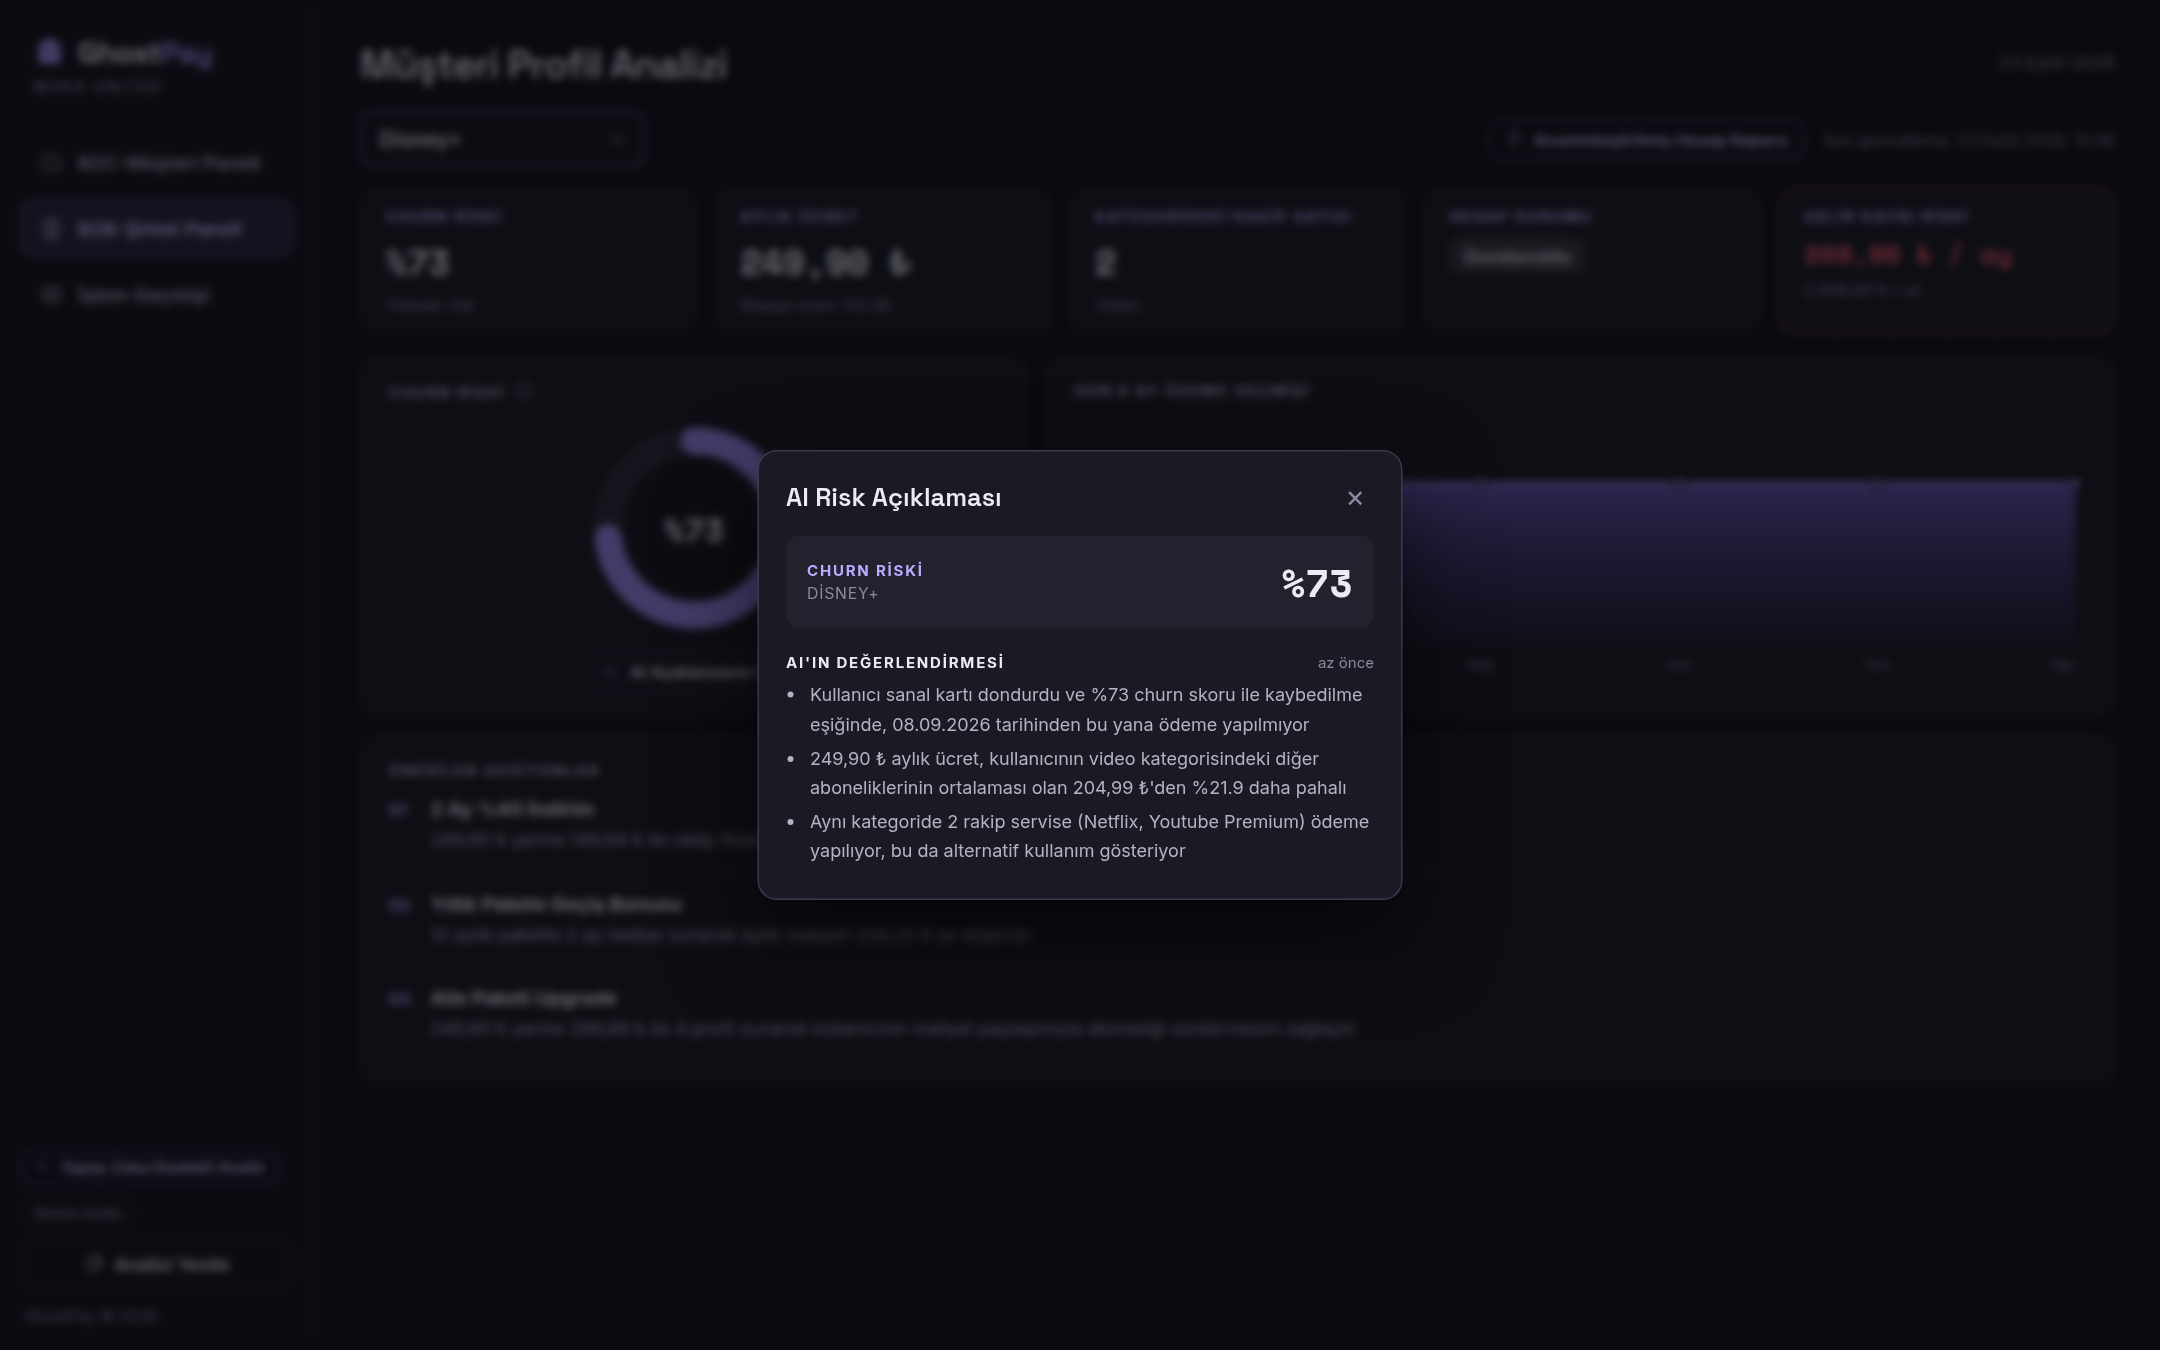
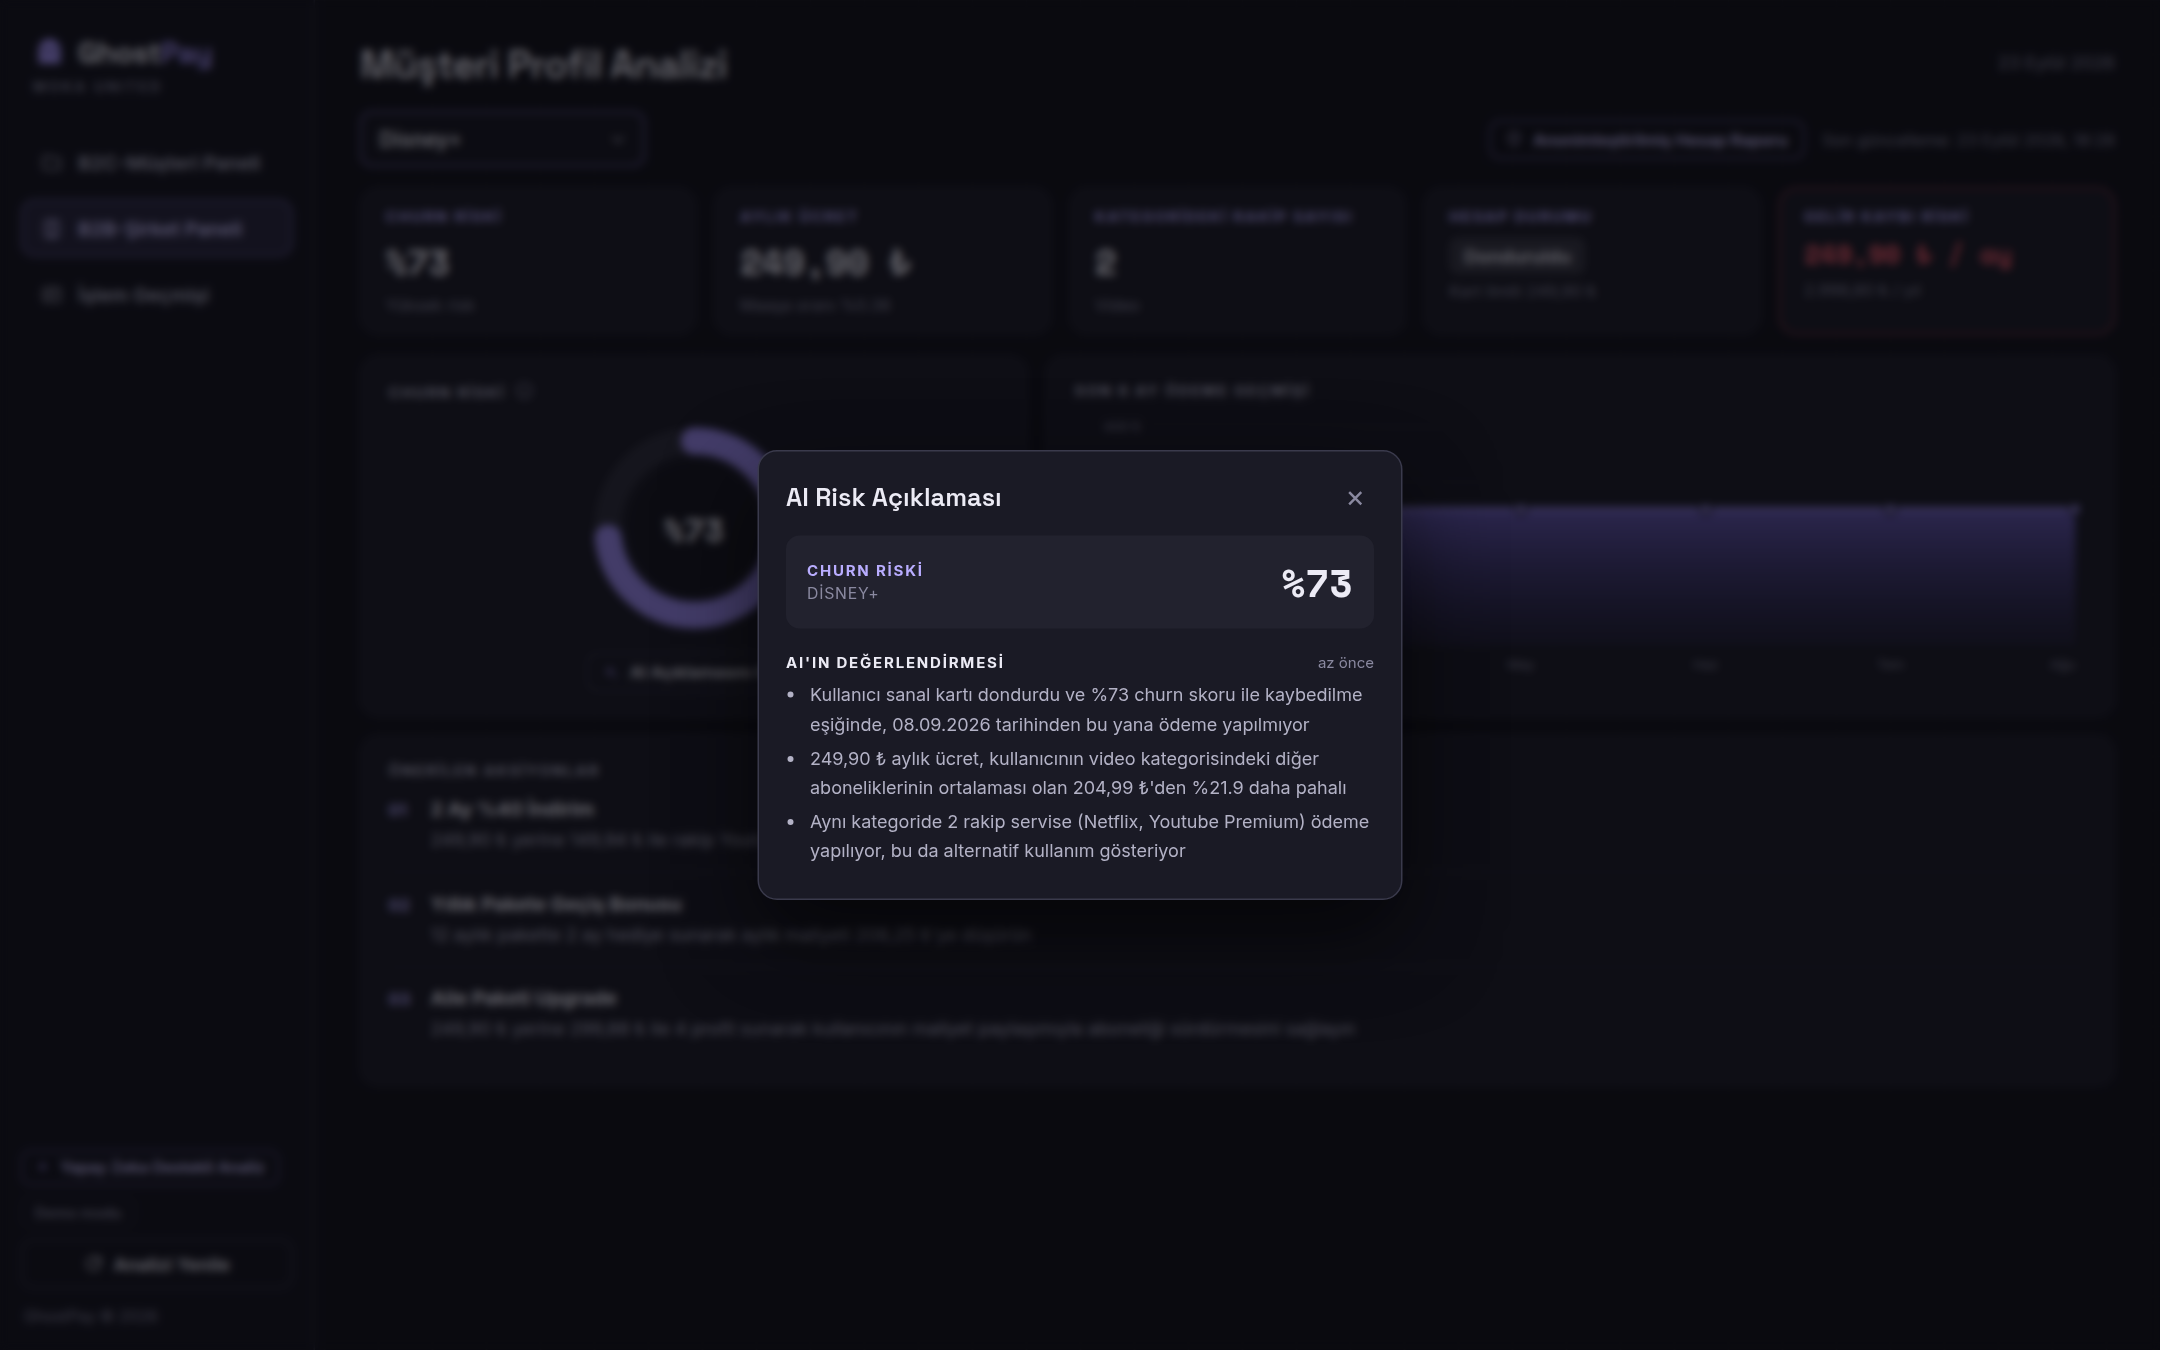
Widen the wallet and virtual cards, fill wide screens
- Main area grows to 1720px instead of stopping at 1280px
- Category stack and virtual cards are wider; cards use the real card ratio
- Total spend no longer overflows its card
- Frozen cards look dimmed
- Tablet widths show categories in a row above the list
- Chart axes use round values; B2B payment chart has an axis
- Right-hand donut legend aligns correctly on narrow screens
- Refreshed README screenshots and demo GIF

Changed region(s): [[0.6514, 0.3422, 0.9616, 0.3733]]

diff --git a/static/style.css b/static/style.css
@@ -111,7 +111,7 @@ h1, h2, h3 { margin: 0; font-weight: 600; }
 .copyright { font-size: 10.5px; color: var(--muted); padding: 4px 2px 0; }
 
 /* Main */
-.main { flex: 1; min-width: 0; padding: 26px 30px 60px; max-width: 1280px; outline: 0; }
+.main { flex: 1; min-width: 0; padding: 26px 30px 60px; max-width: 1720px; outline: 0; }
 .page-head { display: flex; align-items: flex-start; justify-content: space-between; gap: 12px; margin-bottom: 18px; }
 .page-head h1 { font-family: var(--display); font-size: 26px; letter-spacing: -.02em; }
 .today { color: var(--muted); font-size: 12px; margin-top: 8px; white-space: nowrap; }
@@ -161,11 +161,11 @@ h1, h2, h3 { margin: 0; font-weight: 600; }
 .legend-col { display: flex; flex-direction: column; gap: 46px; min-width: 0; }
 .legend-col.right { text-align: right; }
 .legend-item .name { display: flex; align-items: center; gap: 7px; font-size: 12.5px; color: var(--text-2); }
-.legend-col.right .name { justify-content: flex-end; flex-direction: row-reverse; }
+.legend-col.right .name { flex-direction: row-reverse; }
 .legend-item .dot { width: 8px; height: 8px; border-radius: 2px; flex-shrink: 0; }
 .legend-item .amount { font-weight: 700; font-size: 12.5px; margin-top: 4px; }
 .legend-item .amount span { color: var(--muted); font-weight: 500; white-space: nowrap; }
-.donut { width: 160px; height: 160px; margin: 0 16px; }
+.donut { width: clamp(160px, 10vw, 190px); height: auto; aspect-ratio: 1; margin: 0 16px; }
 .donut circle { transition: stroke-dasharray .5s ease, stroke-dashoffset .5s ease; }
 
 .limit-total { font-family: var(--display); font-weight: 700; font-size: 20px; margin: 8px 0 10px; }
@@ -189,12 +189,12 @@ svg .dot { fill: #a594f9; stroke: var(--panel); stroke-width: 2; transition: r .
 svg .dot:hover { r: 6; }
 
 /* Kategori yığını ve abonelikler */
-.subs-layout { display: grid; grid-template-columns: 252px 1fr; gap: 22px; align-items: start; }
+.subs-layout { display: grid; grid-template-columns: clamp(280px, 22vw, 360px) minmax(0, 1fr); gap: 26px; align-items: start; }
 .stack-col { position: sticky; top: 18px; }
 .stack { perspective: 900px; padding: 4px 6px 10px 0; }
 .stack-item {
   position: relative; display: block; width: 100%; text-align: left;
-  height: 76px; margin-top: -14px; padding: 13px 16px;
+  height: 92px; margin-top: -18px; padding: 16px 20px;
   border-radius: var(--radius); border: 1px solid rgba(255,255,255,.08);
   transform: rotateY(-8deg) rotateZ(-1.6deg);
   transform-origin: left center;
@@ -210,23 +210,23 @@ svg .dot:hover { r: 6; }
 .stack-item:nth-child(5) { background: linear-gradient(135deg, #302c42, #252235); z-index: 5; }
 .stack-item:hover { transform: rotateY(-8deg) rotateZ(-1.6deg) translateX(6px); filter: brightness(1.08); }
 .stack-item.selected { border-color: rgba(255,255,255,.75); transform: rotateY(-8deg) rotateZ(-1.6deg) translateX(8px); }
-.stack-item .nm { font-family: var(--display); font-size: 17px; font-weight: 600; }
-.stack-item .am { position: absolute; top: 13px; right: 16px; font-weight: 700; font-size: 12.5px; }
-.stack-item .ct { position: absolute; top: 32px; right: 16px; font-size: 10.5px; opacity: .8; }
+.stack-item .nm { font-family: var(--display); font-size: 19px; font-weight: 600; }
+.stack-item .am { position: absolute; top: 16px; right: 20px; font-weight: 700; font-size: 13.5px; }
+.stack-item .ct { position: absolute; top: 37px; right: 20px; font-size: 11px; opacity: .8; }
 
 .total-card {
-  margin-top: 18px; background: #f4f2fb; color: #16151f; gap: 12px;
-  border-radius: var(--radius); padding: 16px 18px;
-  display: flex; align-items: center; justify-content: space-between;
+  margin-top: 20px; background: #f4f2fb; color: #16151f; gap: 6px 12px;
+  border-radius: var(--radius); padding: 16px 20px;
+  display: flex; flex-wrap: wrap; align-items: center; justify-content: space-between;
   box-shadow: 0 8px 24px rgba(0,0,0,.35);
 }
 .total-card .t { font-size: 10px; font-weight: 800; letter-spacing: .1em; white-space: nowrap; }
 .total-card .s { font-size: 10.5px; color: #6c6a80; margin-top: 3px; }
-.total-card .v { font-family: var(--display); font-weight: 700; font-size: 19px; white-space: nowrap; }
+.total-card .v { font-family: var(--display); font-weight: 700; font-size: 20px; white-space: nowrap; }
 
 .subs-title { font-family: var(--display); font-size: 19px; margin: 0 0 12px; }
 .sub-panel {
-  display: grid; grid-template-columns: 238px 1fr; gap: 18px;
+  display: grid; grid-template-columns: clamp(280px, 21vw, 340px) minmax(0, 1fr); gap: 22px;
   background: var(--panel); border: 1px solid var(--border); border-radius: var(--radius);
   padding: 14px 16px 16px; margin-bottom: 14px; position: relative;
   transition: border-color .2s;
@@ -242,7 +242,7 @@ svg .dot:hover { r: 6; }
 
 /* Sanal kart */
 .vcard {
-  position: relative; height: 146px; border-radius: 13px; padding: 13px 15px;
+  position: relative; aspect-ratio: 1.586; border-radius: 14px; padding: 16px 18px;
   background: linear-gradient(135deg, #ab9cf3 0%, #8573dc 55%, #6f5fc4 100%);
   box-shadow: 0 10px 24px rgba(88, 66, 196, .35);
   display: flex; flex-direction: column; justify-content: space-between;
@@ -253,17 +253,18 @@ svg .dot:hover { r: 6; }
   background: radial-gradient(120% 80% at 85% 0%, rgba(255,255,255,.18), transparent 60%);
   pointer-events: none;
 }
+.vcard.is-frozen { filter: saturate(.4) brightness(.82); box-shadow: 0 8px 20px rgba(0,0,0,.35); }
 .vcard .row { display: flex; justify-content: space-between; align-items: center; }
-.vcard .bank { font-size: 10px; letter-spacing: .12em; font-weight: 500; }
+.vcard .bank { font-size: 11px; letter-spacing: .12em; font-weight: 500; }
 .vcard .bank b { font-weight: 800; }
-.vcard .pill { font-size: 8.5px; font-weight: 800; letter-spacing: .1em; border: 1.3px solid rgba(255,255,255,.85); border-radius: 5px; padding: 2px 6px; }
-.vcard .chip-img { width: 30px; height: 22px; border-radius: 5px; background: linear-gradient(135deg, #f6dc7a, #caa53d); box-shadow: inset 0 0 3px rgba(0,0,0,.3); }
-.vcard .num { font-family: var(--mono); font-size: 11.5px; letter-spacing: 1.6px; white-space: nowrap; }
-.vcard .meta { display: grid; grid-template-columns: 1.2fr 1fr 1fr; font-size: 7.5px; letter-spacing: .12em; opacity: .9; }
+.vcard .pill { font-size: 9px; font-weight: 800; letter-spacing: .1em; border: 1.3px solid rgba(255,255,255,.85); border-radius: 5px; padding: 2px 6px; }
+.vcard .chip-img { width: 38px; height: 28px; border-radius: 5px; background: linear-gradient(135deg, #f6dc7a, #caa53d); box-shadow: inset 0 0 3px rgba(0,0,0,.3); }
+.vcard .num { font-family: var(--mono); font-size: 14px; letter-spacing: 2px; white-space: nowrap; }
+.vcard .meta { display: grid; grid-template-columns: 1.3fr 1fr 1fr; gap: 8px; font-size: 8.5px; letter-spacing: .12em; opacity: .9; }
 .vcard .meta span:last-child { text-align: right; }
-.vcard .meta b { display: block; font-size: 10.5px; letter-spacing: 0; margin-top: 3px; font-weight: 700; }
+.vcard .meta b { display: block; font-size: 12px; letter-spacing: 0; margin-top: 3px; font-weight: 700; overflow: hidden; text-overflow: ellipsis; white-space: nowrap; }
 
-.usage { margin-top: 10px; }
+.usage { margin-top: 12px; }
 .usage .top { display: flex; justify-content: space-between; font-size: 10.5px; color: var(--muted); }
 .usage .top b { color: var(--text); }
 .usage .bar { height: 5px; border-radius: 3px; background: #2c2c3a; margin-top: 5px; overflow: hidden; }
@@ -494,6 +495,20 @@ td.amt.in { color: var(--ok); }
 @media (max-width: 1180px) {
   .kpis.five { grid-template-columns: repeat(3, 1fr); }
   .grid-2, .b2b-grid { grid-template-columns: 1fr; }
+  .donut-panel { grid-template-columns: minmax(0, 1fr) auto minmax(0, 1fr); justify-items: center; }
+
+  .subs-layout { grid-template-columns: minmax(0, 1fr); gap: 16px; }
+  .stack-col { position: static; }
+  .stack { display: flex; gap: 10px; perspective: none; padding: 0; }
+  .stack-item {
+    flex: 1 1 0; min-width: 0; height: auto; margin: 0; padding: 12px 16px;
+    transform: none; box-shadow: 0 6px 16px rgba(0,0,0,.3);
+  }
+  .stack-item:hover { transform: translateY(-2px); }
+  .stack-item.selected { transform: none; }
+  .stack-item .nm { display: block; font-size: 16px; }
+  .stack-item .am, .stack-item .ct { position: static; display: inline; margin-right: 6px; }
+  .total-card { margin-top: 10px; padding: 12px 18px; }
 }
 
 @media (max-width: 860px) {
@@ -522,27 +537,23 @@ td.amt.in { color: var(--ok); }
   .kpi .value { font-size: 17px; }
   .kpis.five .kpi.danger { grid-column: 1 / -1; }
 
-  .donut-panel { grid-template-columns: 1fr 1fr; gap: 14px 12px; }
+  .donut-panel { grid-template-columns: 1fr 1fr; gap: 14px 12px; justify-items: stretch; }
   .donut-panel .donut { grid-column: 1 / -1; grid-row: 2; justify-self: center; margin: 4px 0; }
   .legend-col { gap: 12px; }
   .legend-col.right { text-align: left; }
   .legend-col.right .name { justify-content: flex-start; flex-direction: row; }
 
-  .subs-layout { grid-template-columns: minmax(0, 1fr); gap: 14px; }
-  .stack-col { position: static; }
-  .stack { display: flex; gap: 8px; overflow-x: auto; padding: 2px 0 6px; perspective: none; scroll-snap-type: x mandatory; }
-  .stack-item {
-    flex: 0 0 auto; width: auto; min-width: 150px; height: auto; margin: 0; padding: 10px 14px;
-    transform: none; box-shadow: none; scroll-snap-align: start;
-  }
-  .stack-item:hover, .stack-item.selected { transform: none; }
-  .stack-item .nm { display: block; font-size: 15px; }
-  .stack-item .am, .stack-item .ct { position: static; display: inline; margin-right: 6px; }
+  .subs-layout { gap: 14px; }
+  .stack { gap: 8px; overflow-x: auto; padding: 2px 0 6px; scroll-snap-type: x mandatory; }
+  .stack-item { flex: 0 0 auto; min-width: 150px; padding: 10px 14px; box-shadow: none; scroll-snap-align: start; }
+  .stack-item:hover { transform: none; }
+  .stack-item .nm { font-size: 15px; }
   .total-card { margin-top: 8px; padding: 12px 16px; }
 
   .sub-panel { grid-template-columns: 1fr; padding: 14px; }
-  .sub-name { padding-right: 84px; }
-  .vcard { max-width: 360px; }
+  .status-badge { display: none; }
+  .sub-name { padding-right: 0; }
+  .vcard { max-width: 380px; }
 
   .b2b-bar { flex-direction: column; align-items: stretch; }
   .select { width: 100%; }

diff --git a/static/app.js b/static/app.js
@@ -165,10 +165,15 @@ function ringSvg(score) {
     <circle cx="75" cy="75" r="44" fill="#15151d"/></svg>`;
 }
 
+function niceStep(raw) {
+  const p = 10 ** Math.floor(Math.log10(raw));
+  return [1, 2, 2.5, 5, 10].find((m) => m * p >= raw) * p;
+}
+
 function areaSvg(points, { width = 900, height = 190, yTicks = false, label = "" } = {}) {
   const W = width, H = height, padL = yTicks ? 58 : 8, padR = 8, padT = 12, padB = 24;
   const max = Math.max(...points.map((p) => p.value), 1);
-  const yMax = yTicks ? max * 4 / 3 : max * 1.35;
+  const yMax = yTicks ? 4 * niceStep((max * 1.15) / 4) : max * 1.35;
   const x = (i) => padL + (i * (W - padL - padR)) / Math.max(1, points.length - 1);
   const y = (v) => padT + (1 - v / yMax) * (H - padT - padB);
   const line = points.map((p, i) => `${i ? "L" : "M"}${x(i).toFixed(1)},${y(p.value).toFixed(1)}`).join(" ");
@@ -453,7 +458,7 @@ function renderB2B() {
       <div class="panel kpi"><div class="label">Churn Riski</div><div class="value">%${c.churn_risk}</div><div class="sub">${level.text}${hasAi ? "" : " · tahmini"}</div></div>
       <div class="panel kpi"><div class="label">Aylık Ücret</div><div class="value">${money(s.fiyat)}</div><div class="sub">Maaşa oranı %${pct((100 * s.fiyat) / salary(), 2)}${s.zam ? ` · %${pct(s.zam.oran_yuzde)} zamlı` : ""}</div></div>
       <div class="panel kpi"><div class="label">Kategorideki Rakip Sayısı</div><div class="value">${rivals}</div><div class="sub">${esc(s.kategori)}</div></div>
-      <div class="panel kpi"><div class="label">Hesap Durumu</div><div class="chip ${isFrozen(s) ? "" : "aktif"}">${s.durum}</div></div>
+      <div class="panel kpi"><div class="label">Hesap Durumu</div><div class="chip ${isFrozen(s) ? "" : "aktif"}">${s.durum}</div><div class="sub">Kart limiti ${tl(s.limit)}</div></div>
       <div class="panel kpi danger"><div class="label">Gelir Kaybı Riski</div><div class="value">${money(s.fiyat)} / ay</div><div class="sub">${tl(12 * s.fiyat)} / yıl</div></div>
     </div>
 
@@ -471,7 +476,7 @@ function renderB2B() {
       </div>
       <div class="panel chart-panel">
         <div class="label plain">Son 6 Ay Ödeme Geçmişi</div>
-        ${areaSvg(months, { width: 760, height: 200, label: `${s.ad} son 6 ay ödemeleri` })}
+        ${areaSvg(months, { width: 760, height: 200, yTicks: true, label: `${s.ad} son 6 ay ödemeleri` })}
       </div>
     </div>
 
